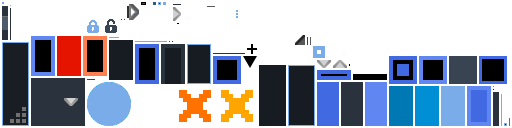
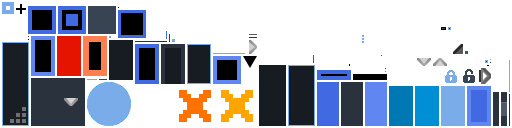
Fixed image fitting bugs

diff --git a/core/src/io/anuke/novix/ui/ColorDisplay.java b/core/src/io/anuke/novix/ui/ColorDisplay.java
@@ -2,21 +2,59 @@ package io.anuke.novix.ui;
 
 import com.badlogic.gdx.Gdx;
 import com.badlogic.gdx.graphics.Color;
+import com.badlogic.gdx.graphics.g2d.Batch;
 
 import io.anuke.novix.element.ColorBox;
 import io.anuke.novix.internal.NovixEvent.ColorChange;
+import io.anuke.novix.internal.NovixEvent.ColorPick;
+import io.anuke.ucore.core.Draw;
 import io.anuke.ucore.core.Events;
+import io.anuke.ucore.graphics.Hue;
 import io.anuke.ucore.scene.ui.ButtonGroup;
 import io.anuke.ucore.scene.ui.layout.Table;
 
 public class ColorDisplay extends Table{
 	private int selected;
 	private ColorBox[] boxes;
+	private ButtonGroup<ColorBox> group;
 	
 	public ColorDisplay(){
 		Events.on(ColorChange.class, color->{
 			boxes[selected].setImageColor(color);
 		});
+		
+		Events.on(ColorPick.class, color->{
+			color.a = 1f;
+			int index = -1;
+			
+			for(int i = 0; i < boxes.length; i ++){
+				if(Hue.approximate(color, boxes[i].getImageColor(), 0.005f)){
+					index = i;
+					break;
+				}
+			}
+			
+			if(index == -1){
+				Events.fire(ColorChange.class, color);
+			}else{
+				selected = index;
+				boxes[selected].setChecked(true);
+				Events.fire(ColorChange.class, boxes[selected].getImageColor());
+			}
+		});
+	}
+	
+	@Override
+	public void draw(Batch batch, float alpha){
+		super.draw(batch, alpha);
+		
+		ColorBox box = boxes[selected];
+		
+		Draw.color("title");
+		float margin = 6;
+		Draw.patch("box-select", getX() + box.getX() - margin, getY() + box.getY() - margin, 
+				box.getWidth() + margin*2, box.getHeight() + margin*2);
+		Draw.color();
 	}
 	
 	public void setColor(int index, Color color){
@@ -37,7 +75,7 @@ public class ColorDisplay extends Table{
 		
 		clear();
 		
-		int maxcolorsize = 57;
+		int maxcolorsize = 54;
 		int mincolorsize = 40;
 
 		int colorsize = Gdx.graphics.getWidth() / colors.length;
@@ -53,7 +91,7 @@ public class ColorDisplay extends Table{
 
 		add().growX();
 		
-		ButtonGroup<ColorBox> group = new ButtonGroup<>();
+		group = new ButtonGroup<>();
 
 		for(int i = 0; i < colors.length; i++){
 			int index = i;

diff --git a/core/src/io/anuke/novix/ui/ProjectMenu.java b/core/src/io/anuke/novix/ui/ProjectMenu.java
@@ -3,6 +3,8 @@ package io.anuke.novix.ui;
 import com.badlogic.gdx.graphics.Color;
 import com.badlogic.gdx.graphics.Colors;
 import com.badlogic.gdx.graphics.Texture;
+import com.badlogic.gdx.math.Vector2;
+import com.badlogic.gdx.utils.Scaling;
 
 import io.anuke.novix.Vars;
 import io.anuke.novix.dialogs.ProjectDialogs;
@@ -125,16 +127,18 @@ public class ProjectMenu extends FloatingMenu{
 		
 		public ProjectTable(Project project){
 			
+			Scaling scaling = Scaling.fit;
 			Stack stack = new Stack();
 			
 			project.reloadTextures();
 			
 			Texture[] tex = project.getCachedTextures();
 			
-			stack.add(new AlphaImage());
+			stack.add(new AlphaImage(5f, 5f * tex[0].getHeight() / tex[0].getWidth()));
 			
 			for(Texture t : tex){
-				stack.add(new Image(t));
+				Image image = new Image(t);
+				stack.add(image);
 			}
 			
 			stack.add(new BorderImage());
@@ -143,8 +147,15 @@ public class ProjectMenu extends FloatingMenu{
 			
 			background("button");
 			
+			float target = 120f;
+			
+			Vector2 size = scaling.apply(tex[0].getWidth(), tex[0].getHeight(), target, target);
+			float padx = (target-size.x)/2f;
+			float pady = (target-size.y)/2f;
+			
 			left();
-			add(stack).padRight(4).padBottom(4).size(120).left();
+			add(stack).size(size.x, size.y).padLeft(padx).padRight(padx + 4f)
+			.padTop(pady).padBottom(pady + 4f).left();
 			
 			new table(){{
 				

diff --git a/core/src/io/anuke/novix/ui/PaletteMenu.java b/core/src/io/anuke/novix/ui/PaletteMenu.java
@@ -2,6 +2,7 @@ package io.anuke.novix.ui;
 
 import com.badlogic.gdx.Gdx;
 import com.badlogic.gdx.graphics.Color;
+import com.badlogic.gdx.utils.Align;
 import com.badlogic.gdx.utils.Array;
 
 import io.anuke.novix.Vars;
@@ -78,7 +79,8 @@ public class PaletteMenu extends FloatingMenu{
 				PaletteDialogs.palette = palette;
 				
 				Table c = PaletteDialogs.editPalette.content();
-				c.setPosition(Gdx.input.getX() - c.getPrefWidth()/2, Graphics.mouse().y-c.getPrefHeight()/2);
+				c.pack();
+				c.setPosition(Gdx.input.getX(), Graphics.mouse().y, Align.topRight);
 				
 				PaletteDialogs.editPalette.show();
 			}).size(40).get();

diff --git a/core/src/io/anuke/novix/element/AlphaImage.java b/core/src/io/anuke/novix/element/AlphaImage.java
@@ -3,8 +3,8 @@ package io.anuke.novix.element;
 import com.badlogic.gdx.graphics.Texture.TextureWrap;
 import com.badlogic.gdx.graphics.g2d.Batch;
 
-import io.anuke.ucore.core.Draw;
 import io.anuke.ucore.core.Core;
+import io.anuke.ucore.core.Draw;
 import io.anuke.ucore.scene.Element;
 
 public class AlphaImage extends Element{
@@ -14,6 +14,12 @@ public class AlphaImage extends Element{
 	public AlphaImage(){
 		
 		Core.skin.getAtlas().getRegion("alpha").getTexture().setWrap(TextureWrap.Repeat, TextureWrap.Repeat);
+	}
+	
+	public AlphaImage(float u, float v){
+		this();
+		this.u = u;
+		this.v = v;
 	}
 	
 	@Override

diff --git a/core/src/io/anuke/novix/element/PopupDialog.java b/core/src/io/anuke/novix/element/PopupDialog.java
@@ -29,7 +29,8 @@ public class PopupDialog extends Table{
 			hide();
 		});
 		
-		content = new Table();
+		content = new Table("button");
+		content.pad(8);
 		
 		addChild(content);
 	}
@@ -42,6 +43,9 @@ public class PopupDialog extends Table{
 		button.add(text).left().bottom();
 		button.left();
 		button.getImageCell().left().padRight(4);
+		button.setStyle(new ImageButton.ImageButtonStyle((ImageButton.ImageButtonStyle)button.getStyle()));
+		button.getStyle().up = Core.skin.getDrawable("black");
+		button.getStyle().down = null;
 		content.add(button);
 		content.row();
 		

diff --git a/core/src/io/anuke/novix/Drawing.java b/core/src/io/anuke/novix/Drawing.java
@@ -656,8 +656,11 @@ public class Drawing extends Module{
 				//TODO is color switching the right choice?
 				Draw.color(tempcolor);
 				
-				if(control.tool() != Tool.zoom) 	
+				if(control.tool() != Tool.zoom){
 					Draw.crect("icon-" + control.tool().name(), getX() + cursorx, getY() + cursory, csize, csize);
+				}else{
+					Draw.crect("icon-" + control.tool().name(), Gdx.graphics.getWidth()/2, Gdx.graphics.getHeight()/2, csize, csize);
+				}
 			}
 			
 			batch.flush();

diff --git a/core/src/io/anuke/novix/internal/Tool.java b/core/src/io/anuke/novix/internal/Tool.java
@@ -5,6 +5,8 @@ import java.util.Stack;
 import com.badlogic.gdx.math.GridPoint2;
 import com.badlogic.gdx.utils.IntSet;
 
+import io.anuke.novix.internal.NovixEvent.ColorPick;
+import io.anuke.ucore.core.Events;
 import io.anuke.ucore.core.Settings;
 
 public enum Tool{
@@ -78,6 +80,7 @@ public enum Tool{
 		}
 		
 		public void clicked(Layer layer, int x, int y){
+			Events.fire(ColorPick.class, layer.getColor(x, y));
 			//TODO
 			/*
 			Color selected = layer.getColor(x, y);

diff --git a/core/src/io/anuke/novix/ui/BottomSlider.java b/core/src/io/anuke/novix/ui/BottomSlider.java
@@ -54,6 +54,14 @@ public class BottomSlider extends Table{
 			Events.fire(AlphaChange.class, alphabar.getValue());
 		});
 		
+		alphabar.released(()->{
+			Settings.save();
+		});
+		
+		sizeslider.released(()->{
+			Settings.save();
+		});
+		
 		alphabar.update(()->{
 			alphabar.setColors(Color.CLEAR, Vars.ui.top().getSelectedColor());
 		});

diff --git a/core/src/io/anuke/novix/dialogs/PaletteDialogs.java b/core/src/io/anuke/novix/dialogs/PaletteDialogs.java
@@ -14,7 +14,7 @@ public class PaletteDialogs{
 	
 	public static final PopupDialog editPalette = new PopupDialog(){
 		{
-			content().defaults().size(190, 50);
+			content().defaults().size(190, 40);
 			
 			addItem("Rename", "icon-rename", 28, () -> {
 				renamePalette.show();

diff --git a/core/src/io/anuke/novix/internal/NovixEvent.java b/core/src/io/anuke/novix/internal/NovixEvent.java
@@ -25,4 +25,8 @@ public class NovixEvent{
 	public static interface AlphaChange extends Event{
 		public void handle(float alpha);
 	}
+	
+	public static interface ColorPick extends Event{
+		public void handle(Color newColor);
+	}
 }

diff --git a/core/src/io/anuke/novix/element/ColorBox.java b/core/src/io/anuke/novix/element/ColorBox.java
@@ -24,6 +24,7 @@ public class ColorBox extends ImageButton{
 	
 	public void setImageColor(Color color){
 		getImage().setColor(color);
+		getImage().getColor().a = 1f;
 	}
 	
 	@Override
